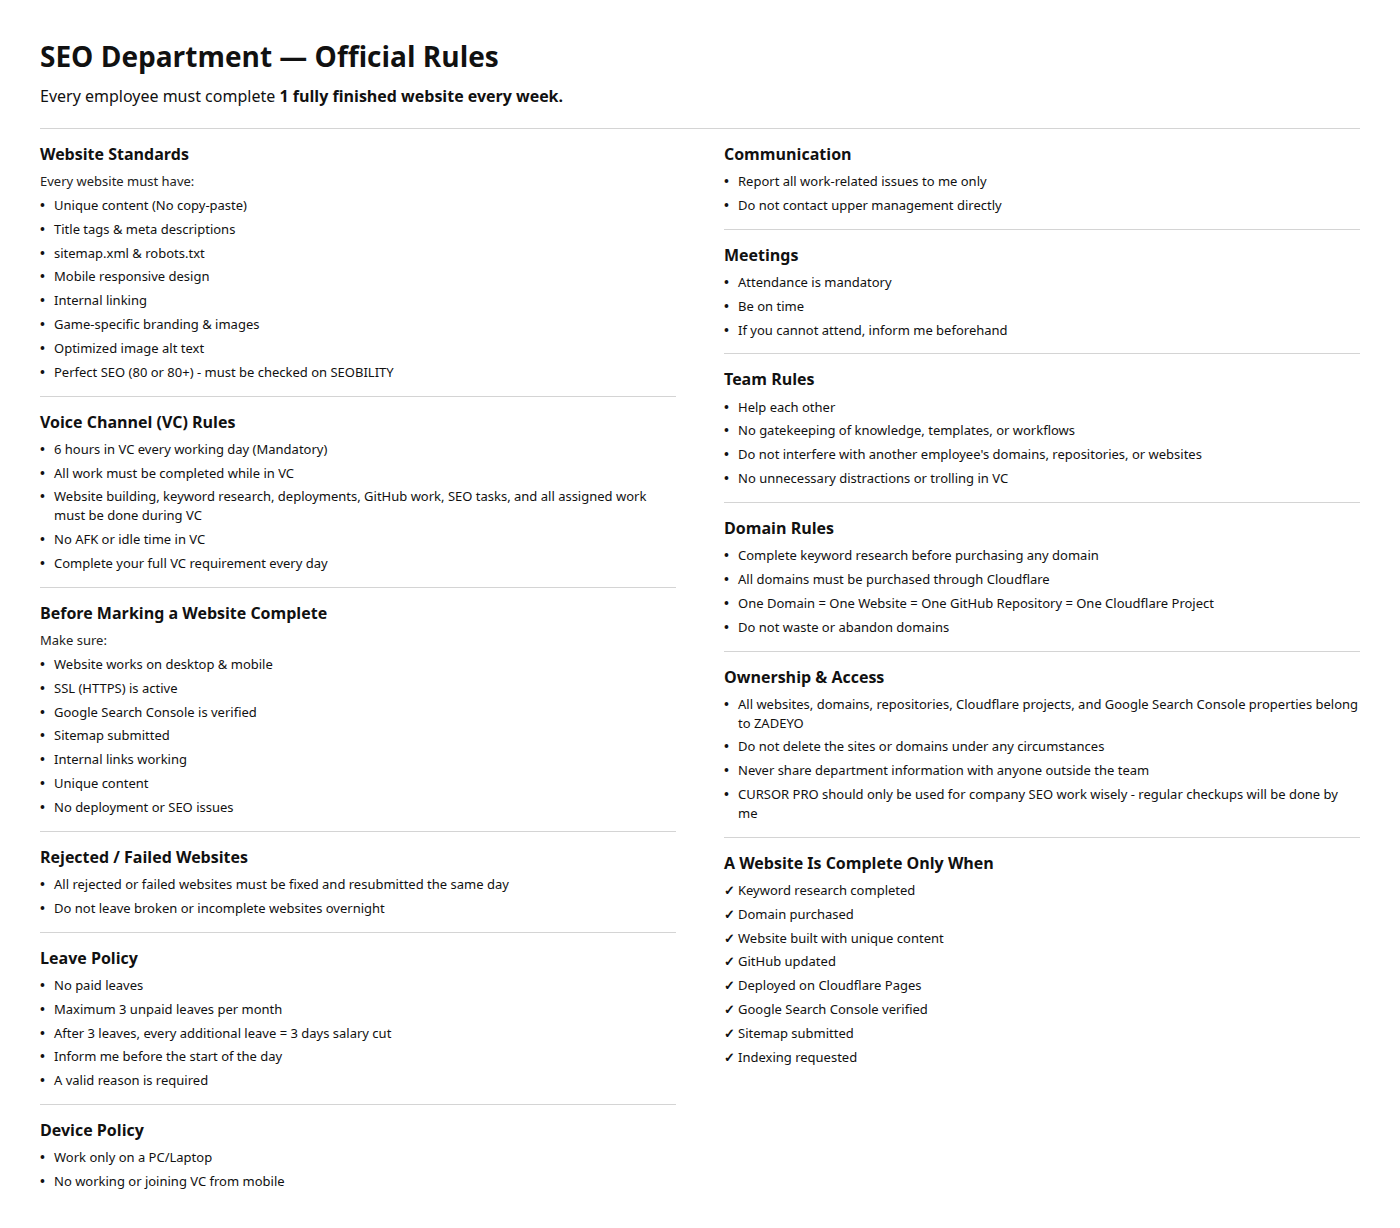
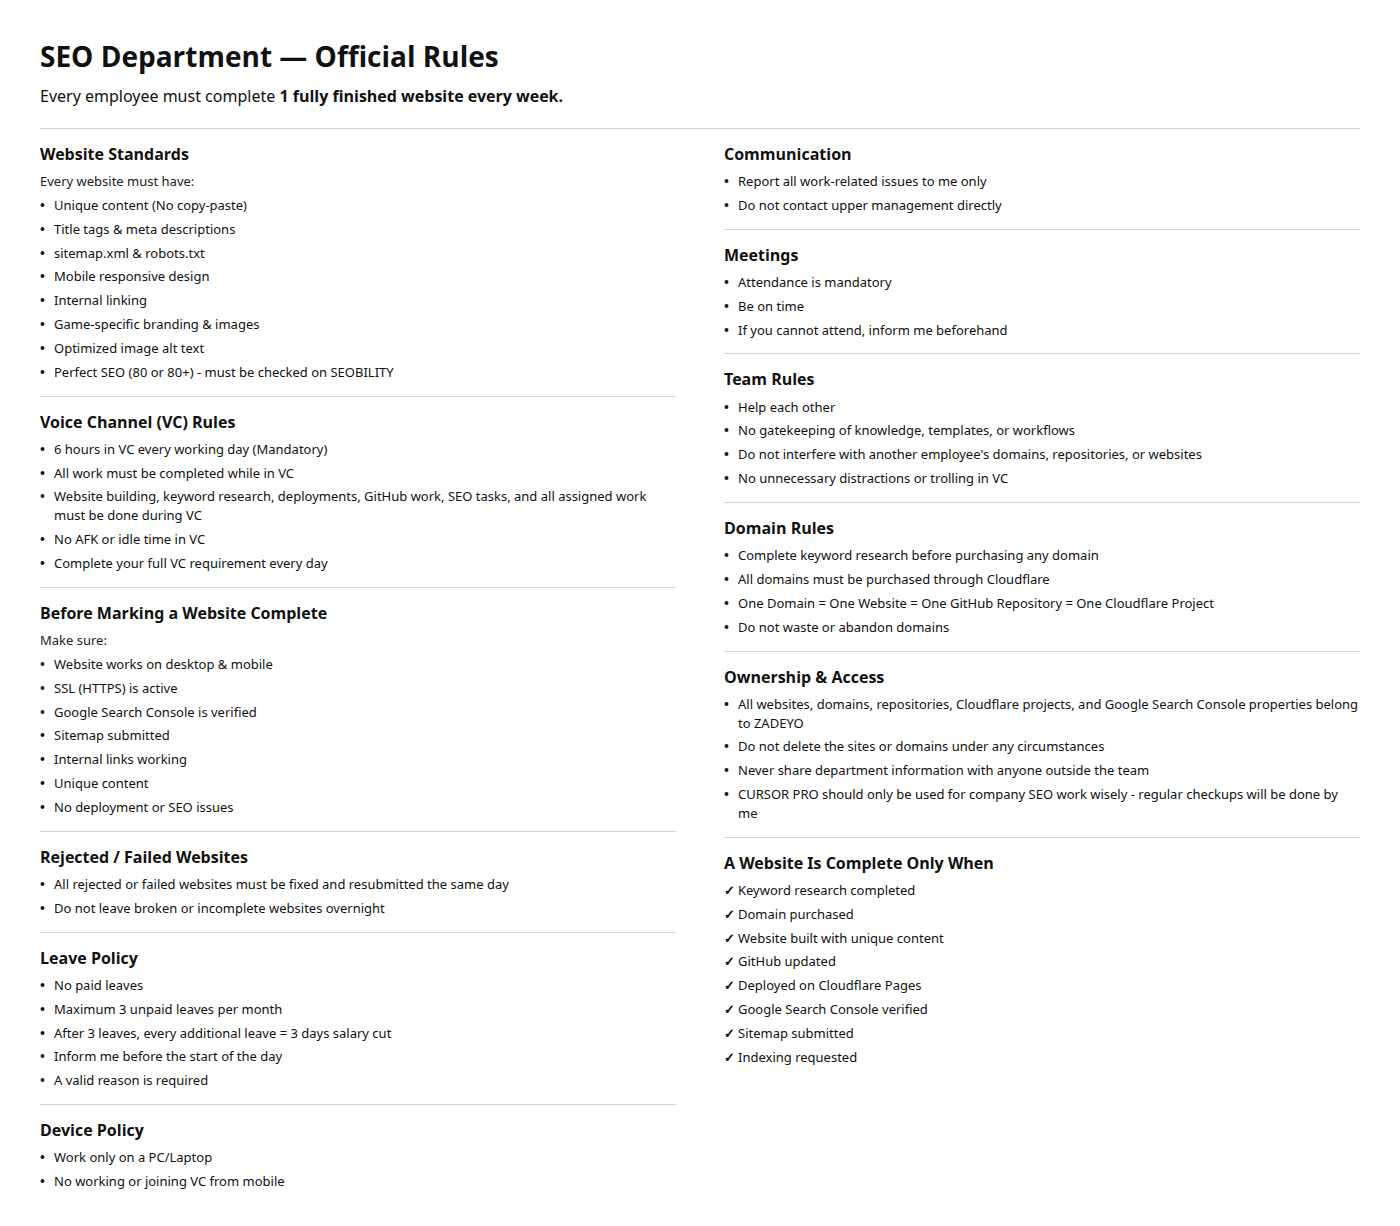
Refresh rules PNG with updated Leave Policy sections; remove old part images

diff --git a/rules-image-single.html b/rules-image-single.html
@@ -9,7 +9,7 @@
       background: #fff;
       color: #111;
       width: 1400px;
-      padding: 36px 40px 32px;
+      padding: 36px 40px 30px;
       line-height: 1.45;
     }
     h1 {
